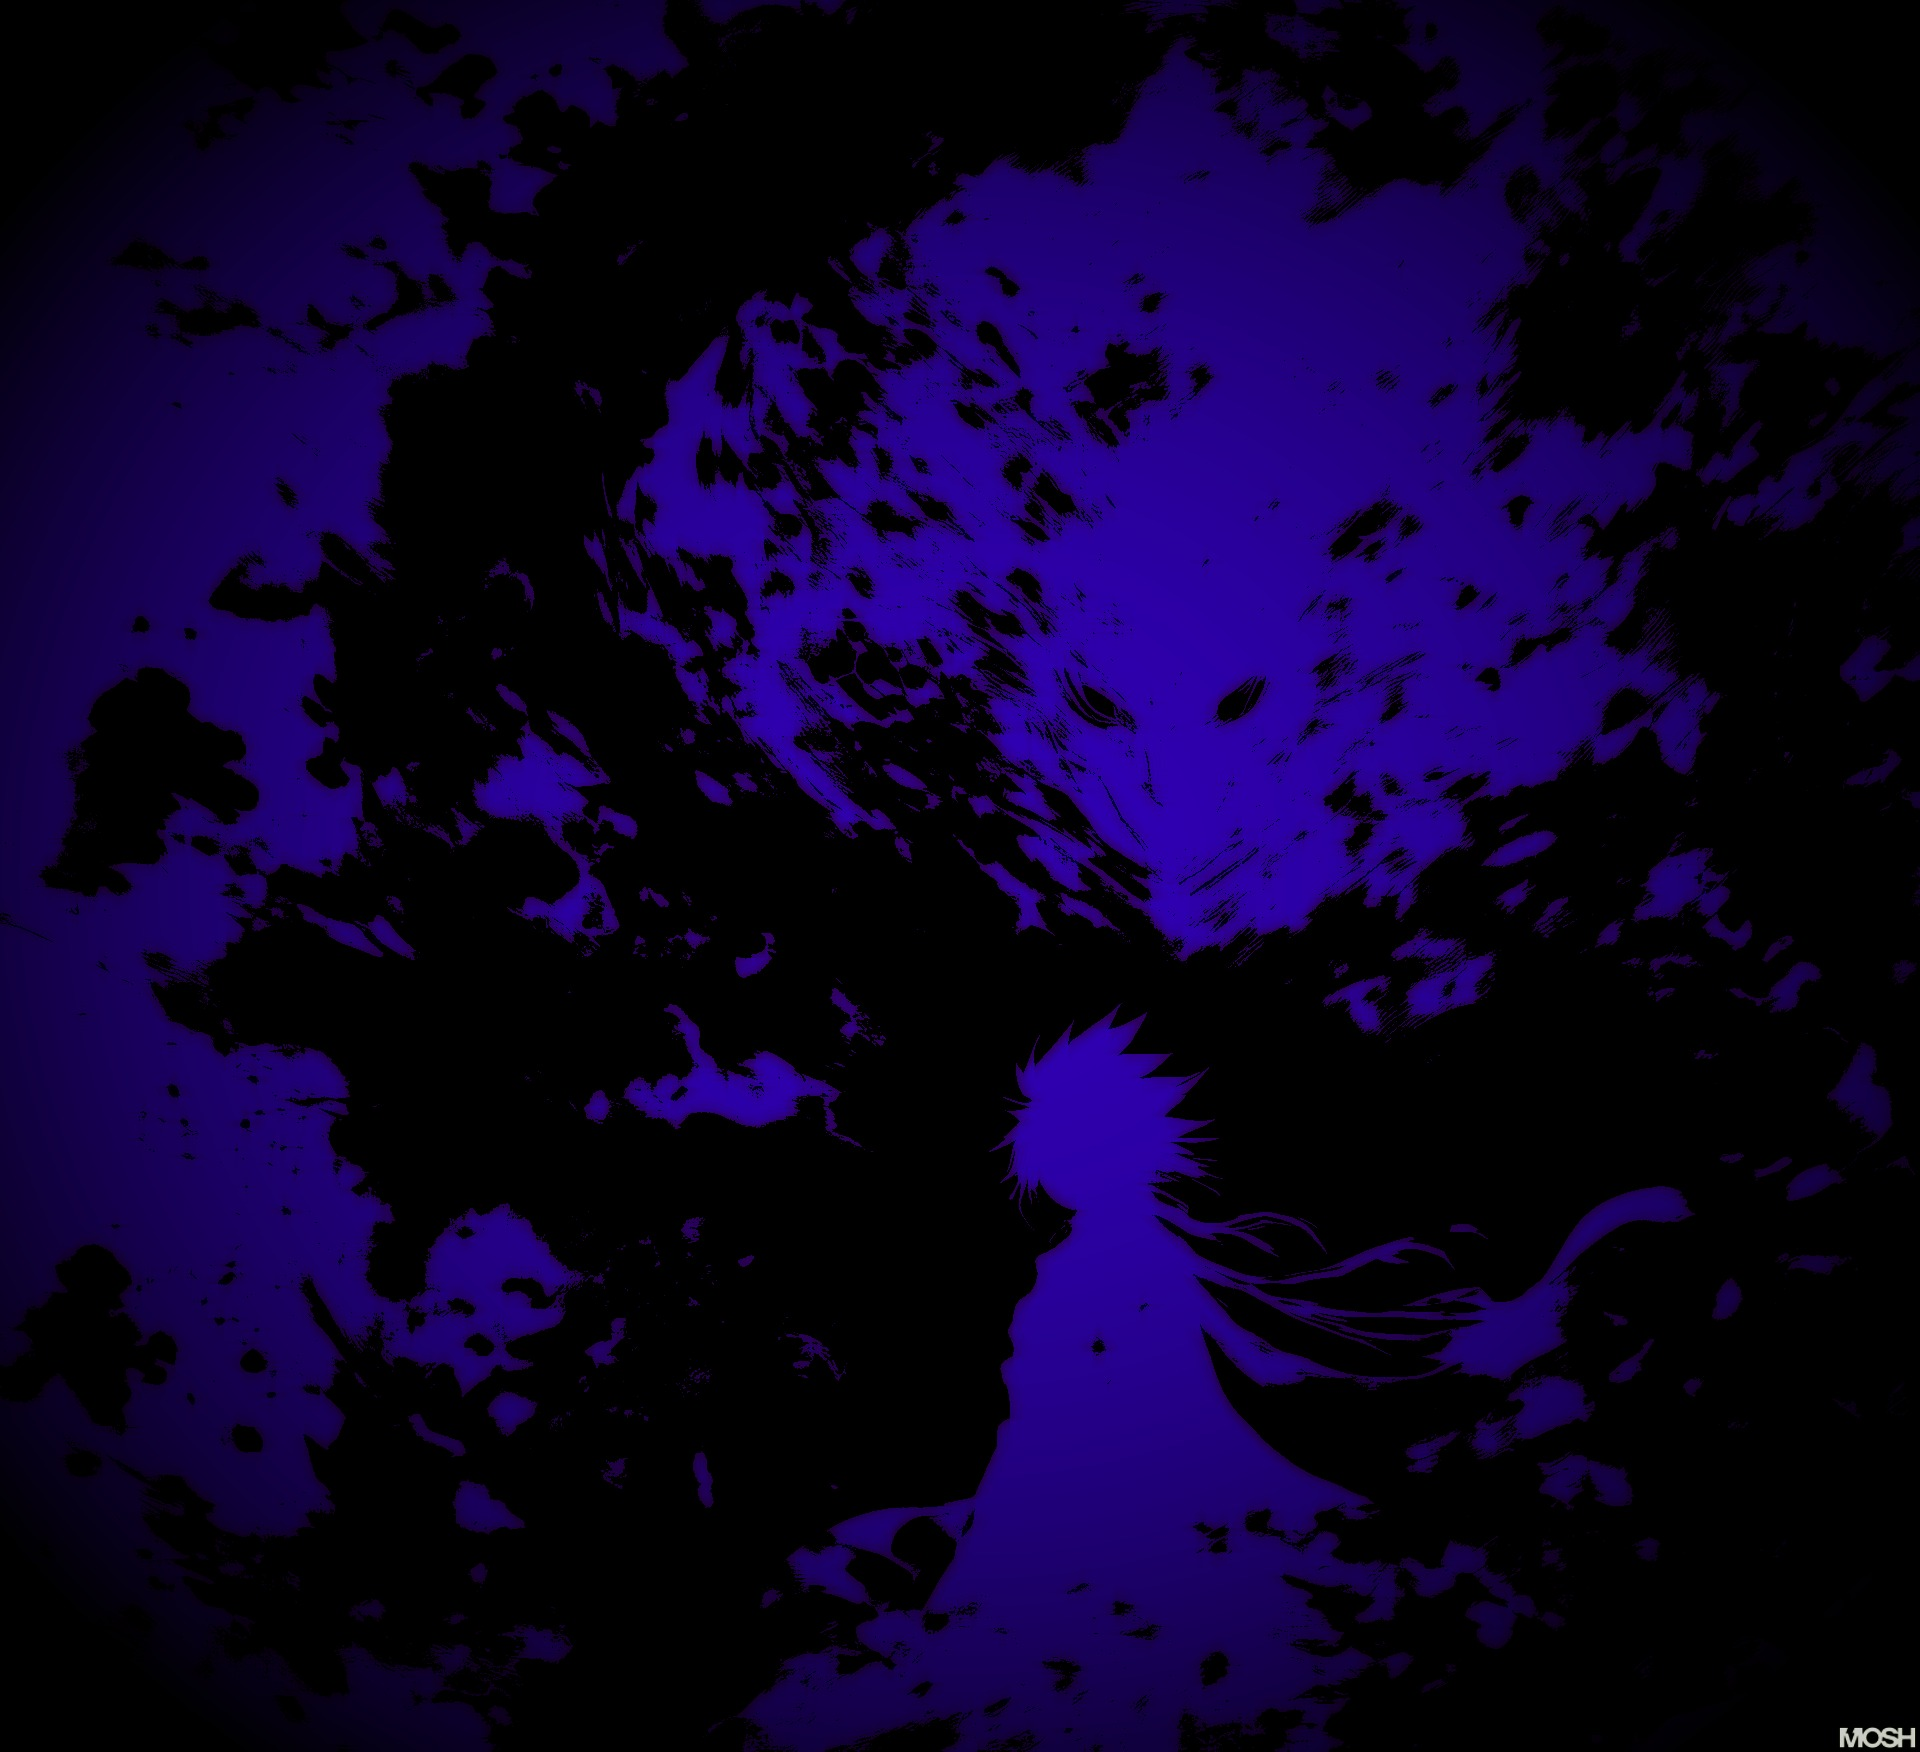
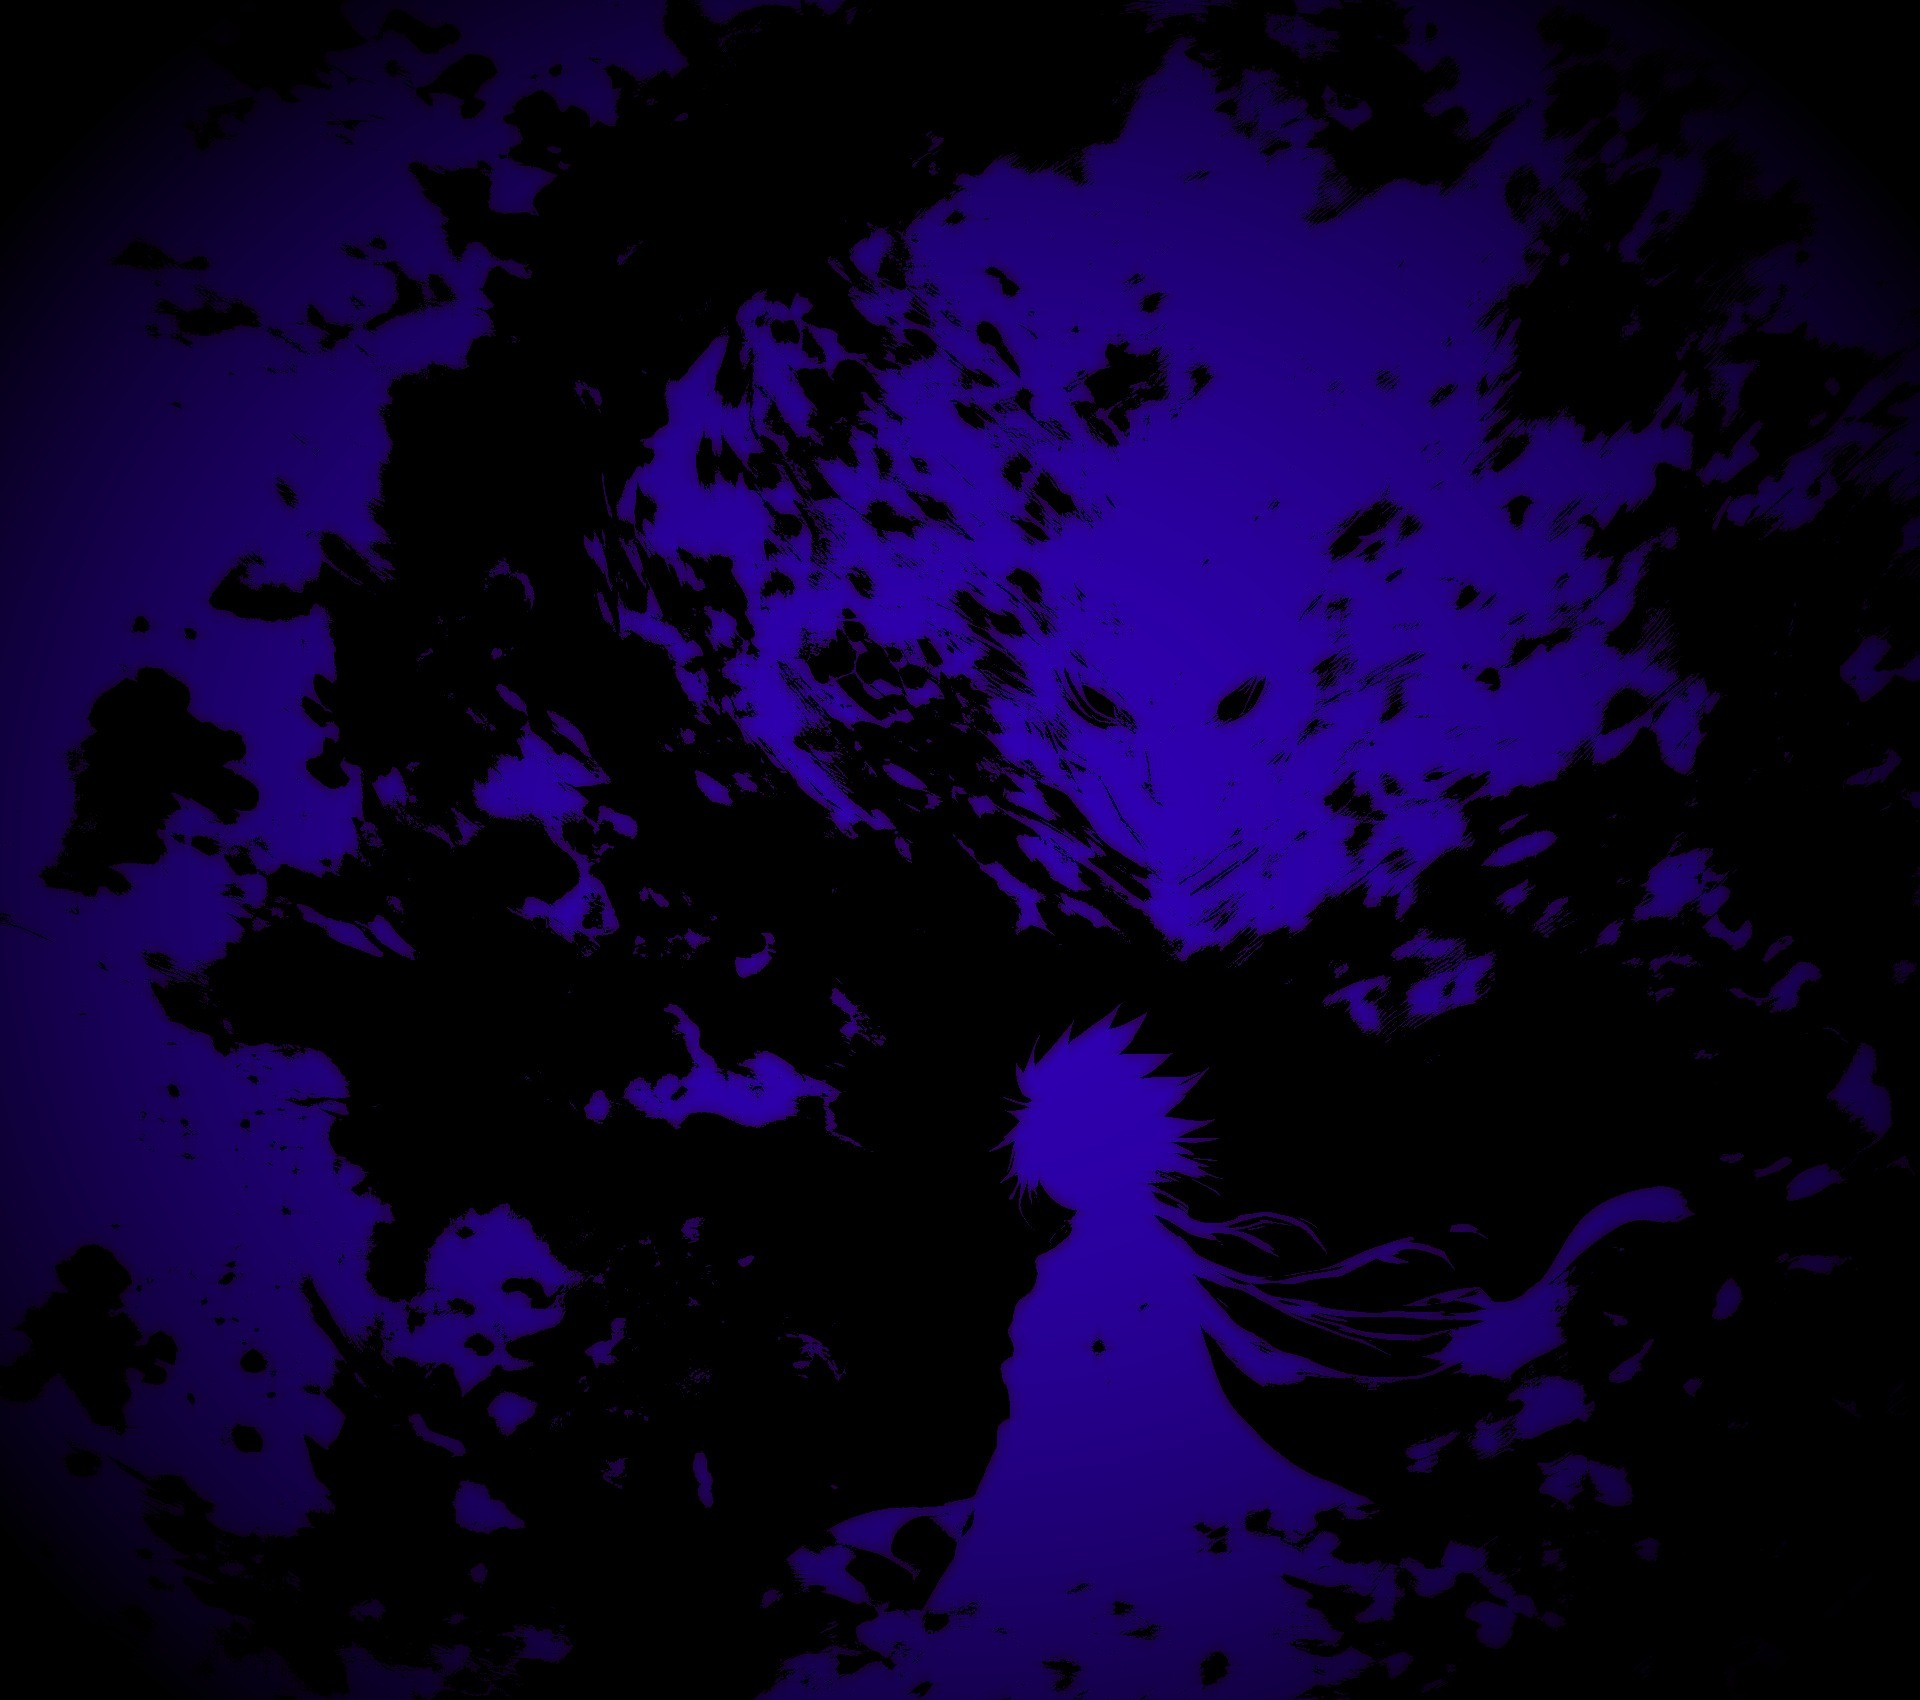
Changed bg to stretch

diff --git a/src/index.css b/src/index.css
@@ -24,7 +24,7 @@ body,
 }
 
 body {
-  background: var(--bg) url('/animates_bg.jpg') center / cover no-repeat;
+  background: var(--bg) url('/animates_bg.jpg') center / stretch no-repeat;
   color: var(--text);
   line-height: 1.5;
 }
